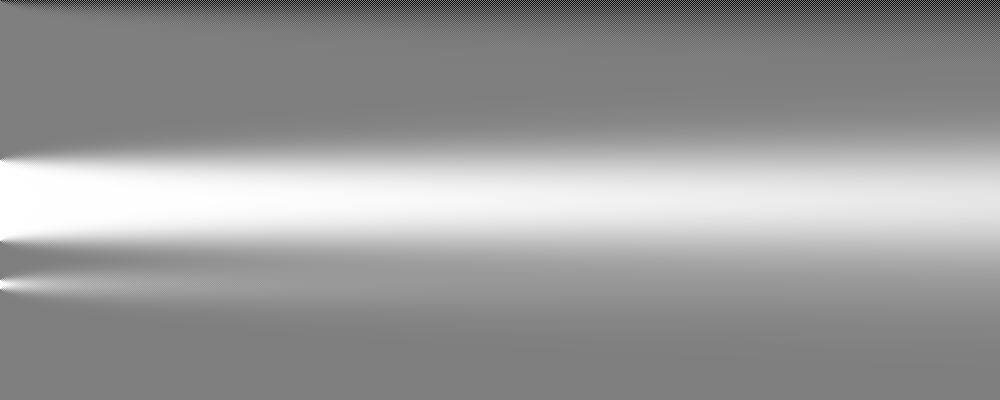
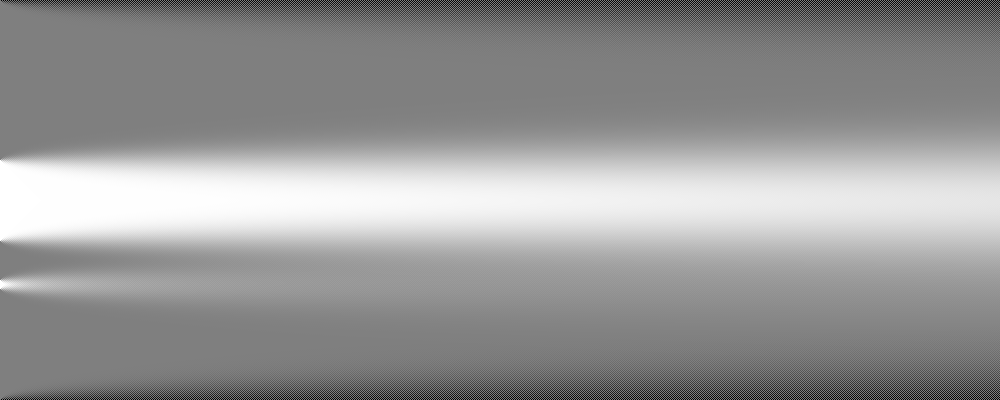
prep 2D

Changed region(s): [[0.0, 0.9, 1.0, 1.0]]

diff --git a/navier_stokes_1D/navier_stokes_1D.go b/navier_stokes_1D/navier_stokes_1D.go
@@ -83,19 +83,10 @@ func main() {
 
 // Iterates one step of diffusion for the grid
 func step(arr_in []float64, arr_out []float64, sc Sim_constants) {
-	for i := range arr_in {
-		switch i {
-		case 0: // Near edge
-		case len(arr_in) - 1: // Near edge
-			arr_out[i] = arr_in[i] // - arr_in[i]*sc.dt/sc.dx*(arr_in[i])
-		default:
-			// arr_out[i] = arr_in[i] - arr_in[i]*sc.dt/sc.dx*(arr_in[i]-arr_in[i-1])
-			// arr_out[i] = arr_in[i] - arr_in[i]*sc.dt/sc.dx*((arr_in[i]-arr_in[i-1])+(arr_in[i]-arr_in[i+1]))
-			// arr_out[i] = arr_in[i] - arr_in[i]*sc.dt/(sc.dx)*(2*arr_in[i]-arr_in[i+1]-arr_in[i-1])
-			arr_out[i] = arr_in[i] +
-				sc.nu*sc.dt/(math.Pow(sc.dx, 2))*
-					(arr_in[i+1]-2*arr_in[i]+arr_in[i-1])
-		}
+	for i := 1; i < len(arr_in)-1; i++ {
+		arr_out[i] = arr_in[i] +
+			sc.nu*sc.dt/(math.Pow(sc.dx, 2))*
+				(arr_in[i+1]-2*arr_in[i]+arr_in[i-1])
 	}
 }
 
